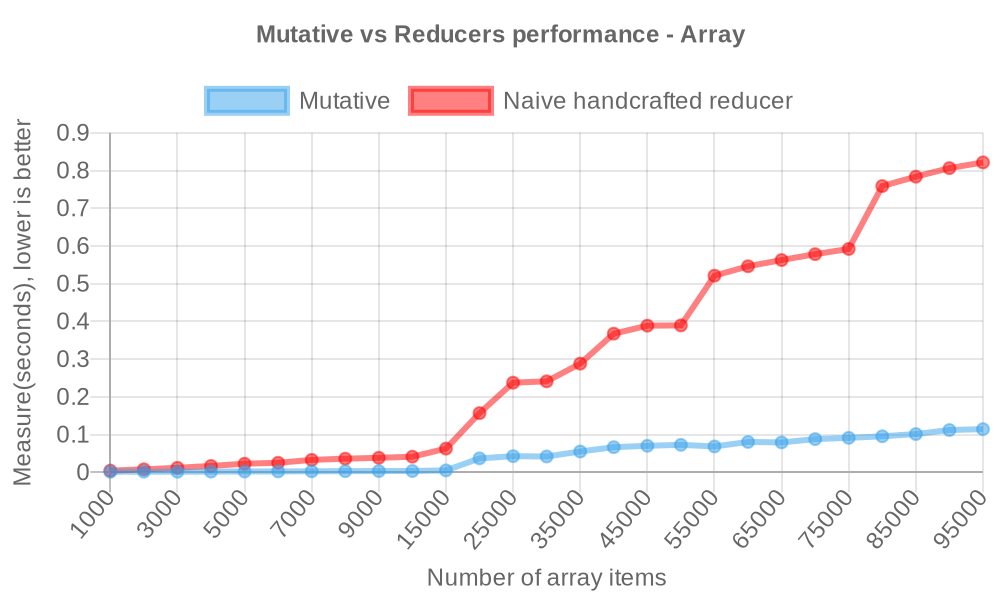
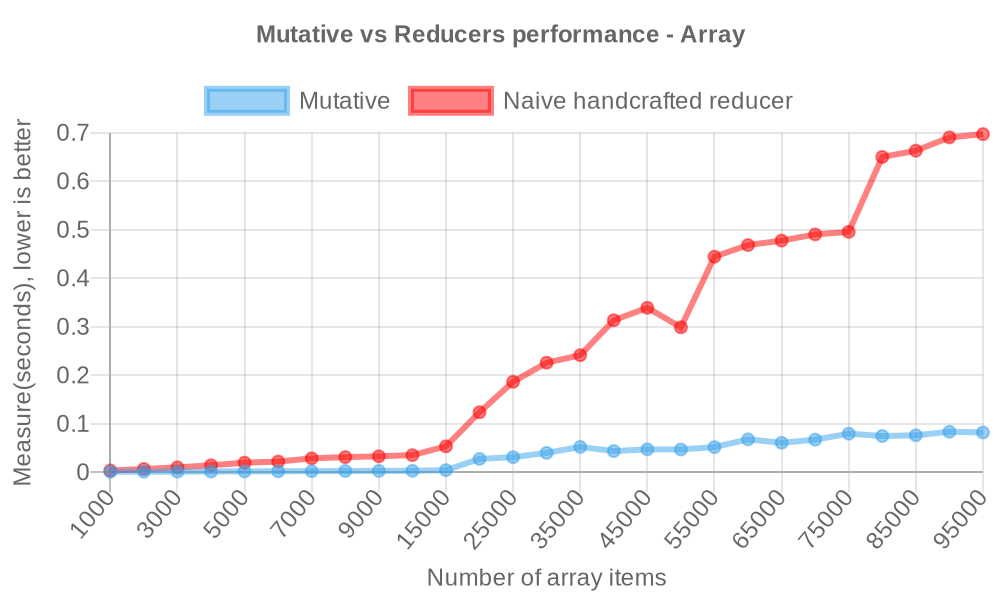
docs(reamde): update perf

Changed region(s): [[0.031, 0.21, 0.992, 0.78], [0.062, 0.21, 0.093, 0.24]]

diff --git a/README.md b/README.md
@@ -109,23 +109,23 @@ Mutative is up to 6x faster than naive handcrafted reducer for updating immutabl
 
 > Mutative passed all of Immer's test cases.
 
-Measure(ops/sec) to update 50K arrays and 1K objects, bigger is better([view source](https://github.com/unadlib/mutative/blob/main/test/performance/benchmark.ts)). [Mutative v1.1.0 vs Immer v10.1.1]
+Measure(ops/sec) to update 50K arrays and 1K objects, bigger is better([view source](https://github.com/unadlib/mutative/blob/main/test/performance/benchmark.ts)). [Mutative v1.3.0 vs Immer v10.1.1]
 
 ![Benchmark](benchmark.jpg)
 
 ```
-Naive handcrafted reducer - No Freeze x 4,670 ops/sec ±0.64% (96 runs sampled)
-Mutative - No Freeze x 6,747 ops/sec ±0.61% (95 runs sampled)
-Immer - No Freeze x 5.65 ops/sec ±1.53% (19 runs sampled)
+Naive handcrafted reducer - No Freeze x 4,777 ops/sec ±1.06% (94 runs sampled)
+Mutative - No Freeze x 6,783 ops/sec ±0.71% (96 runs sampled)
+Immer - No Freeze x 5.72 ops/sec ±0.39% (19 runs sampled)
 
-Mutative - Freeze x 1,062 ops/sec ±0.74% (95 runs sampled)
-Immer - Freeze x 394 ops/sec ±0.85% (93 runs sampled)
+Mutative - Freeze x 1,069 ops/sec ±0.75% (97 runs sampled)
+Immer - Freeze x 392 ops/sec ±0.66% (92 runs sampled)
 
-Mutative - Patches and No Freeze x 1,011 ops/sec ±0.24% (98 runs sampled)
-Immer - Patches and No Freeze x 5.64 ops/sec ±0.22% (19 runs sampled)
+Mutative - Patches and No Freeze x 1,006 ops/sec ±1.73% (95 runs sampled)
+Immer - Patches and No Freeze x 5.73 ops/sec ±0.16% (19 runs sampled)
 
-Mutative - Patches and Freeze x 545 ops/sec ±1.19% (94 runs sampled)
-Immer - Patches and Freeze x 215 ops/sec ±0.70% (86 runs sampled)
+Mutative - Patches and Freeze x 548 ops/sec ±1.06% (94 runs sampled)
+Immer - Patches and Freeze x 287 ops/sec ±0.84% (93 runs sampled)
 
 The fastest method is Mutative - No Freeze
 ```

diff --git a/website/docs/extra-topics/comparison-with-immer.md b/website/docs/extra-topics/comparison-with-immer.md
@@ -26,7 +26,7 @@ Mutative has fewer bugs such as accidental draft escapes than Immer, [view detai
 
 > Mutative passed all of Immer's test cases.
 
-Measure(ops/sec) to update 50K arrays and 1K objects, bigger is better([view source](https://github.com/unadlib/mutative/blob/main/test/performance/benchmark.ts)). [Mutative v1.1.0 vs Immer v10.1.1]
+Measure(ops/sec) to update 50K arrays and 1K objects, bigger is better([view source](https://github.com/unadlib/mutative/blob/main/test/performance/benchmark.ts)). [Mutative v1.3.0 vs Immer v10.1.3]
 
 ![Benchmark](img/benchmark.jpg)
 

diff --git a/website/blog/releases/1.0/index.md b/website/blog/releases/1.0/index.md
@@ -94,7 +94,7 @@ const state = create(baseState, (draft) => {
 
 > Mutative passed all of Immer's test cases.
 
-Measure(ops/sec) to update 50K arrays and 1K objects, bigger is better([view source](https://github.com/unadlib/mutative/blob/main/test/performance/benchmark.ts)). [Mutative v1.1.0 vs Immer v10.1.1]
+Measure(ops/sec) to update 50K arrays and 1K objects, bigger is better([view source](https://github.com/unadlib/mutative/blob/main/test/performance/benchmark.ts)). [Mutative v1.3.0 vs Immer v10.1.3]
 
 ![Benchmark](img/benchmark.jpg)
 

diff --git a/website/docs/getting-started/performance.md b/website/docs/getting-started/performance.md
@@ -82,7 +82,7 @@ const state = create(baseState, (draft) => {
 
 > Mutative passed all of Immer's test cases.
 
-Measure(ops/sec) to update 50K arrays and 1K objects, bigger is better([view source](https://github.com/unadlib/mutative/blob/main/test/performance/benchmark.ts)). [Mutative v1.1.0 vs Immer v10.1.1]
+Measure(ops/sec) to update 50K arrays and 1K objects, bigger is better([view source](https://github.com/unadlib/mutative/blob/main/test/performance/benchmark.ts)). [Mutative v1.3.0 vs Immer v10.1.3]
 
 ![Benchmark](img/benchmark.jpg)
 
